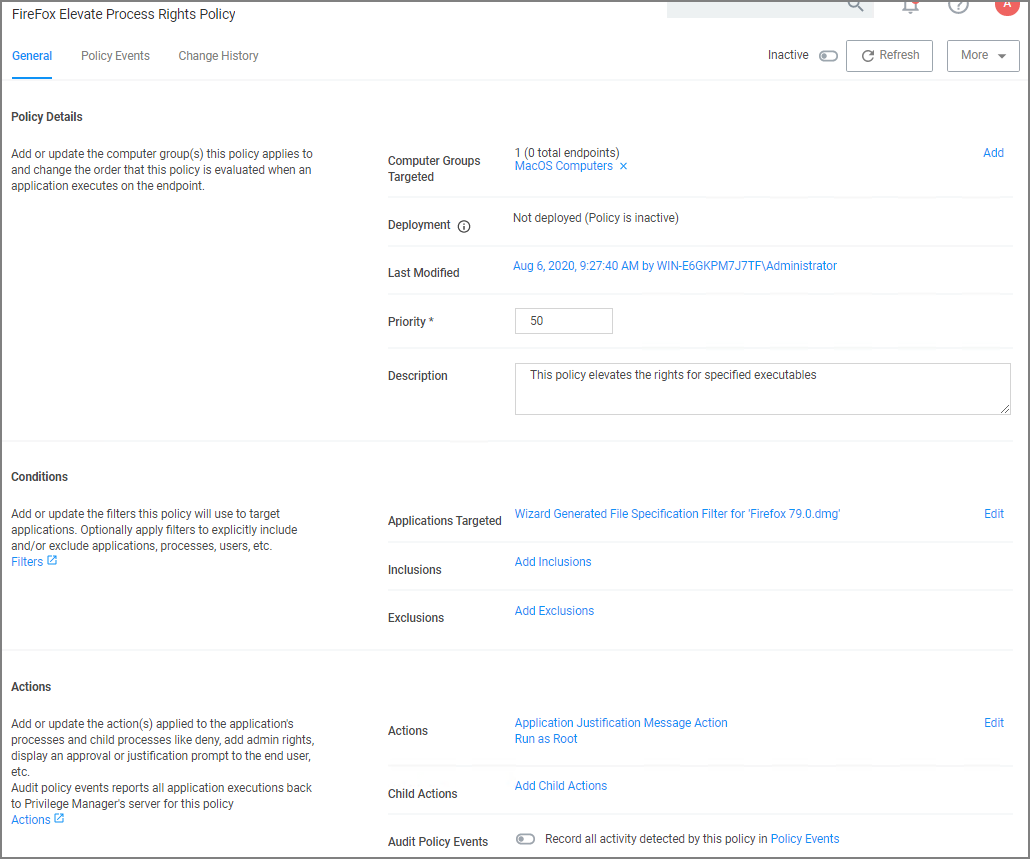
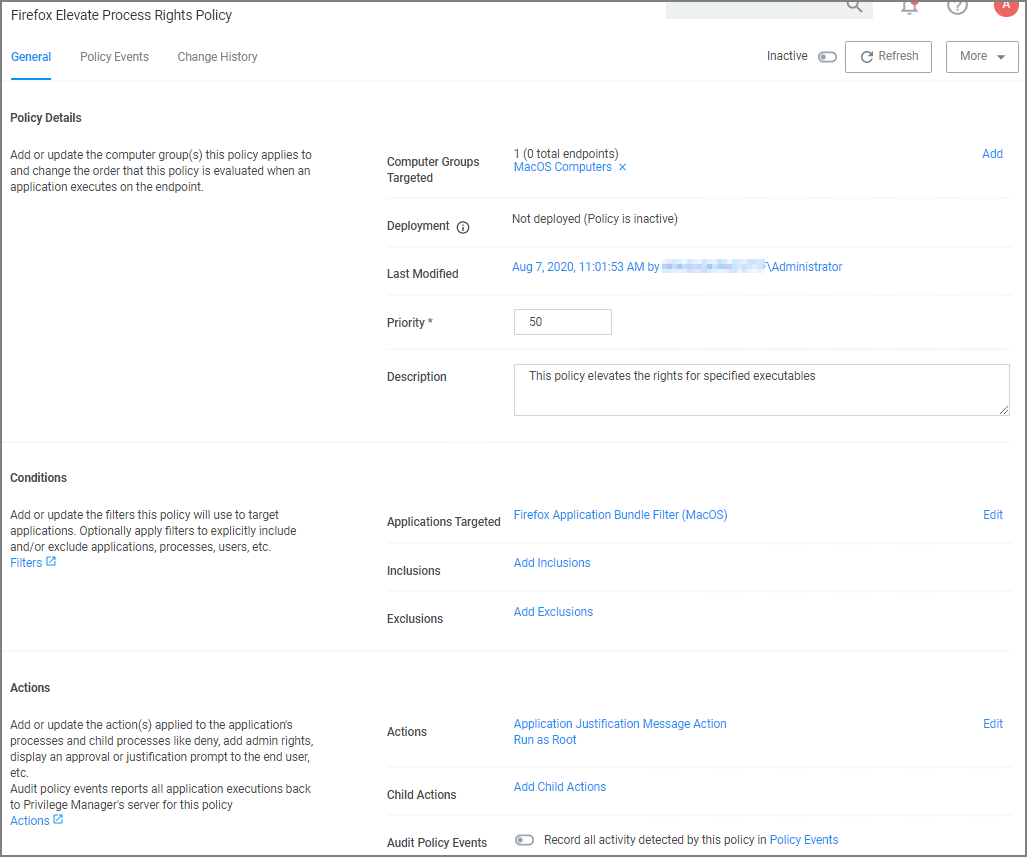
edits based on review feedback

diff --git a/computer-groups/macOS/examples/justification-firefox.md b/computer-groups/macOS/examples/justification-firefox.md
@@ -5,24 +5,33 @@
 
 The following example provides information on setting up a justification required policy for FireFox on a macOS endpoint.
 
+Create a filter for Firefox either from discovery or manually. Use that filter in the steps below.
+
 1. Using the Policy Wizard, create a controlling policy that elevates application execution on endpoints.
 1. Select __Require Justification__, and click __Next Step__.
 1. Select what file type to target, for this example select __Executable__, and click __Next Step__.
-1. Choose your target, for this example __File Upload__.
-1. Click __Choose File__ and select a file to upload.
-
-   ![target](images/justification/target.png "File upload to target Firefox application")
-1. Click __Upload File__.
-1. On the __Manage Application__ page select all the identifying factors you want the filter to target.
-
-   ![manage app](images/justification/create-filter.png "Details to be targeted by filter")
-1. Click __Create Filter__.
+1. Choose your target, for this example __Existing Filter__.
+1. Search for and add your Firefox filter.
+1. Click __Updated__.
 1. Click __Next Step__.
 1. Name your policy and add a description, click __Create Policy__.
 
    ![policy](images/justification/policy.png "User Justification Git application policy")
 1. Set the __Inactive__ switch to __Active__.
 
-To make sure your policy is effective, pull up Terminal on your testing macOS endpoint and run `sudo /usr/local/thycotic/agent/agentUtil.sh updateclientitems` command.
+## Updating the Endpoint
 
-Once the justification policy is updated on your endpoint, when you click Firefox you will see a prompt where the user can enter their justification reason for accessing Firefox.
+On the macOS endpoint,
+
+1. Open __System Preferences | Privilege Manager__.
+
+   ![update client items](images/update-client-button.png "Privilege Manager system preference pane with Update Client Items button")
+1. Click __Update Client Items__.
+
+The agent updates with new and updated policies and synchronizes.
+
+## Expected User Experience
+
+Once the justification policy is updated on an endpoint, when users click Firefox they will see a prompt to enter their justification reason for accessing Firefox.
+
+![copy](images/mac/firefox.png "Justification Message")

diff --git a/computer-groups/macOS/examples/copy-install.md b/computer-groups/macOS/examples/copy-install.md
@@ -9,7 +9,8 @@ A policy can be created to allow or deny standard users to install specific appl
 1. Click __Create Policy__.
 1. Select __Controlling__ and click __Next Step__.
 1. Select __Allow__ and click __Next Step__.
-1. Select what exactly you want the policy to target. This can be based of an __Existing Filter__, a __File Upload__, and/or __Inventoried File(s)__. Multiple targets can be selected. Our example shows the __All Application Bundles Filter (MacOS)__. Click __Next Step__.
+1. Select what exactly you want the policy to target. This can be based of an __Existing Filter__, a __File Upload__, and/or __Inventoried File(s)__. Multiple targets can be selected.
+1. Click __Next Step__.
 1. Enter a Name and description for your policy, click __Create Policy__.
 
    ![new](images/mac/copy_drag_drop.png "Allow Copy to Install Application Policy")
@@ -41,13 +42,19 @@ If you have policies that currently use the Privilege Manager Copy/Installer Hel
    ![enforcement](images/mac/policy-enforcement.png "Policy enforcement options")
 1. Click __Save Changes__.
 
+## Updating the Endpoint
+
 On the macOS endpoint,
 
-1. Login as Admin user.
-1. Open the macOS Agent via Terminal and run an update using command:
+1. Open __System Preferences | Privilege Manager__.
 
-   ```shell
-   sudo /usr/local/thycotic/agent/agentUtil.sh updateclientitems
-   ```
+   ![update client items](images/update-client-button.png "Privilege Manager system preference pane with Update Client Items button")
+1. Click __Update Client Items__.
 
 The agent updates with new and updated policies and synchronizes.
+
+## Expected User Experience
+
+After the policies are updated, users can open a DMG or just drag and drop an application bundle to Applications. They'll see the authenticate message an click __Authenticate__.
+
+![copy](images/mac/copy_drag_drop-3.png "Message to authenticate")

diff --git a/computer-groups/macOS/examples/determ-admin.md b/computer-groups/macOS/examples/determ-admin.md
@@ -5,11 +5,10 @@
 
 Use discovery with event notification to determine if an application requests or requires administrative privileges to perform tasks or run on a macOS endpoint.
 
-1. Use/Create a __Codesign Entitled Elevated Application Filter__. This filter creates events for application bundles that have a specific entitlement that might prompt for administrative permissions if launched.
-   1. Create a __Duplicate__ of the Codesign Entitled Elevated Application Filter:
+1. Use the __Codesign Entitled Elevated Application Filter__. This filter creates events for application bundles that have a specific entitlement that might prompt for administrative permissions if launched.
 
-      ![filter 1](images/mac/sudo_req_1.png "Codesign Entitled Elevated Application Filter")
-1. Use/Create a duplicate of the __Executable Declared as Privileged Filter__. This filter creates events for application bundles that list a privileged helper in their info.plist files.
+   ![filter 1](images/mac/sudo_req_1.png "Codesign Entitled Elevated Application Filter")
+1. Use the __Executable Declared as Privileged Filter__. This filter creates events for application bundles that list a privileged helper in their info.plist files.
 
    ![filter 2](images/mac/sudo_req_2.png "Executable Declared as Privileged Filter")
 1. Add both filters as the application target to a new policy and enable the __Send Policy Feedback__ action for that policy.

diff --git a/computer-groups/macOS/examples/deny-photos.md b/computer-groups/macOS/examples/deny-photos.md
@@ -48,11 +48,16 @@ Once the resources have been fully discovered, the fastest way to either create 
    ![Policy](images/deny/discovery-nlr-8.png "Deny Application Execution Policy")
 1. Set the __Inactive__ switch to __Active__.
 
+## Updating the Endpoint
+
+On the macOS endpoint,
+
+1. Open __System Preferences | Privilege Manager__.
+
+   ![update client items](images/update-client-button.png "Privilege Manager system preference pane with Update Client Items button")
+1. Click __Update Client Items__.
+
 ## Policy Verification
-
-To make sure your policy is effective, pull up Terminal on your testing macOS endpoint and run the `sudo /usr/local/thycotic/agent/agentUtil.sh updateclientitems` command.
-
-   ![Run command example output](images/deny/terminal.png "Client items update terminal example")
 
 Once this Deny-policy is updated on your endpoint, when you click Zoom, you will see a message like this:
 
